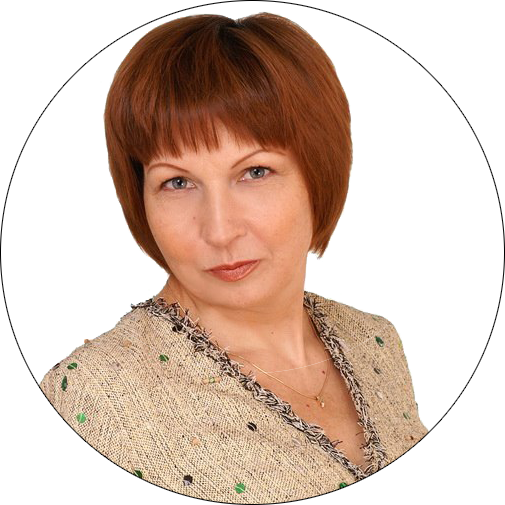
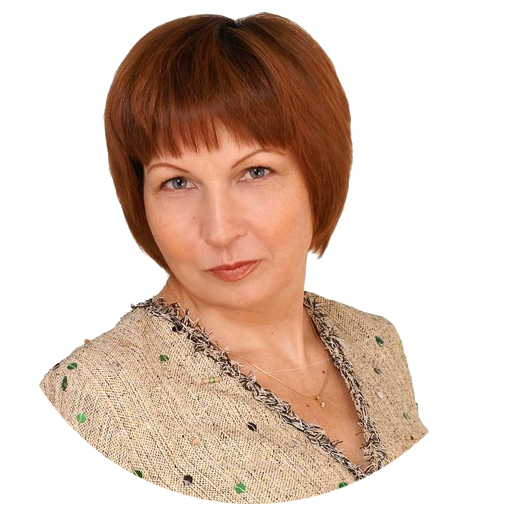
Округляем шапку + лёгкие изменения в аве. Обдумать.

diff --git a/style.css b/style.css
@@ -50,7 +50,7 @@ img {
 
 #telephone {
     font-size: 16pt;
-    margin-top: 30px;
+    margin-top: 10px;
 }
 
 #name {
